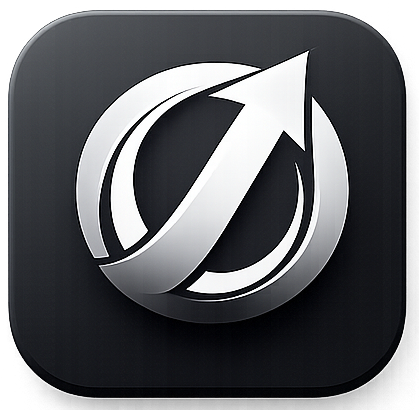
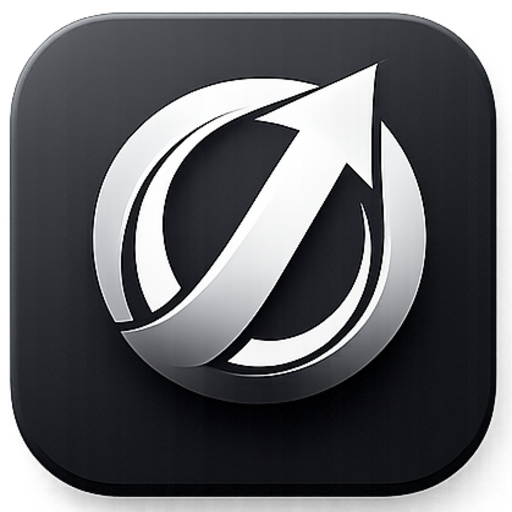
go

diff --git a/app/layout.tsx b/app/layout.tsx
@@ -13,10 +13,10 @@ export const metadata: Metadata = {
   themeColor: '#070B14',
 
   icons: {
-    icon: '/icon.png',
-    apple: '/apple-icon.png',
+    icon: [{ url: '/icon.png', sizes: '512x512', type: 'image/png' }],
+    apple: [{ url: '/apple-icon.png', sizes: '180x180', type: 'image/png' }],
   },
-};
+}; // ✅ ISTO FALTAVA
 
 export default function RootLayout({
   children,
